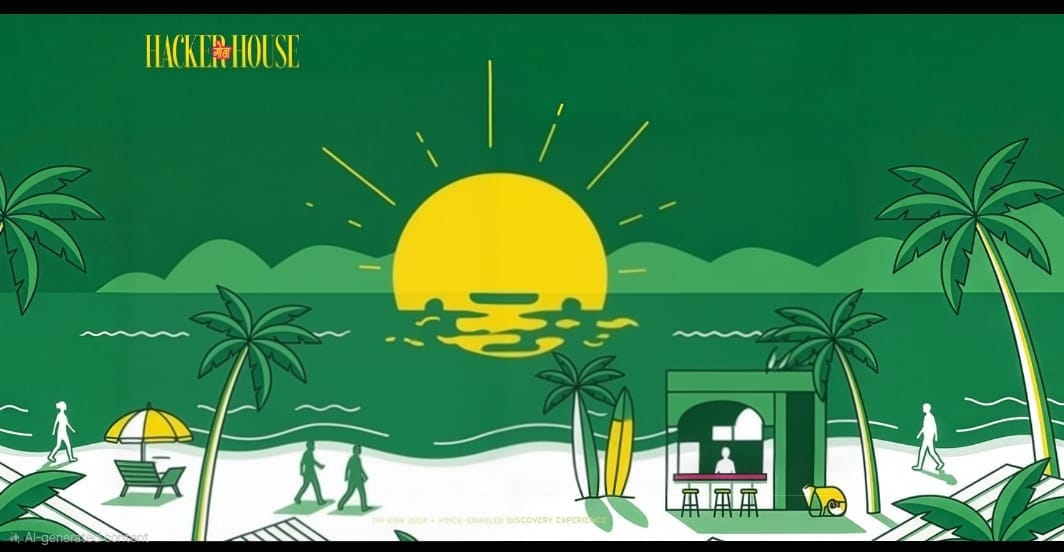
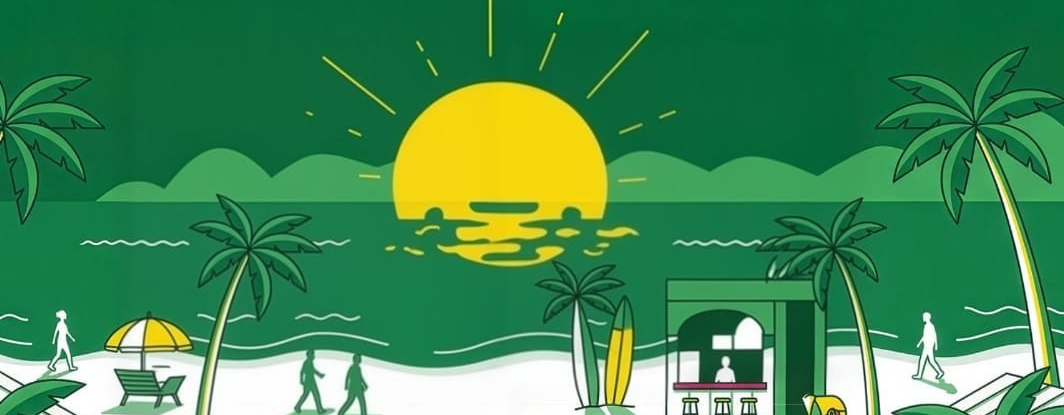
feat(ui): centre the event wordmark on a single header row
The wordmark was baked into the top-left corner of the illustration, where
the layout clipped it and it competed with the product name. It is cropped
out of the image and rebuilt as live text, centred on the header row beside
the product on the left and the status badges on the right.

Positioned absolutely rather than placed in the flex flow: the two side
blocks have different widths, so a flow-centred element would sit off-centre
by exactly that difference. It hides below xl, and the task line below lg,
because on a narrower window the three blocks collide rather than fit; the
product name and status always survive.

Depth comes from hard-edged offset shadows with zero blur radius, so the
serifs stay crisp. An earlier glow treatment was removed: at this size the
soft shadows smeared the letterforms and read as a dirty screen rather than
as lighting.

The backdrop image is re-cropped to drop both the old wordmark and the
"AI-generated content" caption that sat along the bottom edge.

diff --git a/frontend/src/App.tsx b/frontend/src/App.tsx
@@ -55,26 +55,41 @@ export default function App() {
 
   return (
     <div className="grid-backdrop flex h-full flex-col">
-      <header className="flex flex-wrap items-center gap-3 border-b border-white/10 px-5 py-3">
-        <div className="flex items-center gap-3">
-          <AudioLines style={{ color: 'var(--color-goa-yellow)' }} size={22} />
-          <div>
-            <div className="flex flex-wrap items-baseline gap-2">
-              <h1 className="display-type text-xl leading-none">SONIC&nbsp;RAG</h1>
-              <span
-                className="rounded-full px-2 py-0.5 font-mono text-[9px] tracking-widest uppercase"
-                style={{ background: 'var(--color-goa-pink)', color: 'var(--color-goa-yellow)' }}
-              >
-                {EVENT.name}
-              </span>
-            </div>
-            <p className="mt-0.5 font-mono text-[10px] tracking-[0.22em] text-emerald-100/60 uppercase">
-              {EVENT.task}
-            </p>
+      {/*
+        One row: product on the left, event wordmark centred, status on the
+        right. The wordmark is absolutely positioned rather than placed in the
+        flow, because the two side blocks have different widths and a flex
+        `mx-auto` would push it off-centre by the difference. Hidden below xl,
+        where the sides would otherwise collide with it.
+      */}
+      <header className="relative flex shrink-0 items-center gap-3 border-b border-white/10 px-5 py-2.5">
+        <div className="flex min-w-0 items-center gap-2.5">
+          <AudioLines style={{ color: 'var(--color-goa-yellow)' }} size={20} className="shrink-0" />
+          <h1 className="display-type text-lg leading-none whitespace-nowrap">SONIC&nbsp;RAG</h1>
+          <span
+            className="shrink-0 rounded-full px-2 py-0.5 font-mono text-[9px] tracking-widest uppercase"
+            style={{ background: 'var(--color-goa-pink)', color: 'var(--color-goa-yellow)' }}
+          >
+            {EVENT.name}
+          </span>
+          <span className="hidden h-3.5 w-px shrink-0 bg-white/15 lg:block" />
+          <p className="hidden truncate font-mono text-[10px] tracking-[0.2em] text-emerald-100/55 uppercase lg:block">
+            {EVENT.task}
+          </p>
+        </div>
+
+        <div
+          className="pointer-events-none absolute left-1/2 hidden -translate-x-1/2 xl:block"
+          aria-hidden="true"
+        >
+          <div className="goa-wordmark">
+            <span>HACKER</span>
+            <span className="goa-chip">गोवा</span>
+            <span>HOUSE</span>
           </div>
         </div>
 
-        <div className="ml-auto flex flex-wrap items-center gap-2">
+        <div className="ml-auto flex shrink-0 flex-wrap items-center gap-2">
           {healthError ? (
             <Badge tone="rose">backend unreachable</Badge>
           ) : health ? (

diff --git a/frontend/src/index.css b/frontend/src/index.css
@@ -137,6 +137,57 @@ body {
   box-shadow: 0 8px 32px -12px rgba(0, 0, 0, 0.5);
 }
 
+/*
+ * HACKER गोवा HOUSE wordmark, sitting in the backdrop behind the interface.
+ *
+ * It was previously baked into the top-left of the illustration, where it was
+ * cropped by the layout and fought the header. Cropped out of the image and
+ * rebuilt as live text so it can be centred, scaled with the viewport, and lit.
+ */
+.goa-wordmark {
+  display: flex;
+  align-items: center;
+  justify-content: center;
+  gap: 0.14em;
+  user-select: none;
+  font-family: var(--font-display);
+  font-weight: 900;
+  /* Deliberately modest. This is a brand mark, not a hero headline: it should
+     sit above the interface without competing with it. */
+  font-size: clamp(1.05rem, 2.4vw, 1.75rem);
+  letter-spacing: 0.1em;
+  line-height: 1;
+  white-space: nowrap;
+}
+
+.goa-wordmark span {
+  color: var(--color-goa-yellow);
+  /*
+   * Depth from hard-edged offset shadows only -- every step has a zero blur
+   * radius, so the letterform stays crisp at any size. Soft glows were tried
+   * and removed: at this scale they smeared the serifs and read as a screen
+   * that needed cleaning rather than as lighting.
+   */
+  text-shadow:
+    0 1px 0 #c4ab0f,
+    0 2px 0 #a89308,
+    0 3px 0 #8c7a06;
+}
+
+/* गोवा keeps the poster's rotated pink chip. */
+.goa-wordmark .goa-chip {
+  font-family: ui-sans-serif, system-ui, 'Nirmala UI', sans-serif;
+  font-size: 0.52em;
+  font-weight: 700;
+  color: var(--color-goa-yellow);
+  background: var(--color-goa-pink);
+  padding: 0.1em 0.32em 0.18em;
+  border-radius: 0.14em;
+  transform: rotate(-6deg);
+  letter-spacing: 0;
+  text-shadow: 0 1px 0 #b31563;
+}
+
 /* High-contrast condensed serif, as used for FRAME YOUR GOA on the poster. */
 .display-type {
   font-family: var(--font-display);
